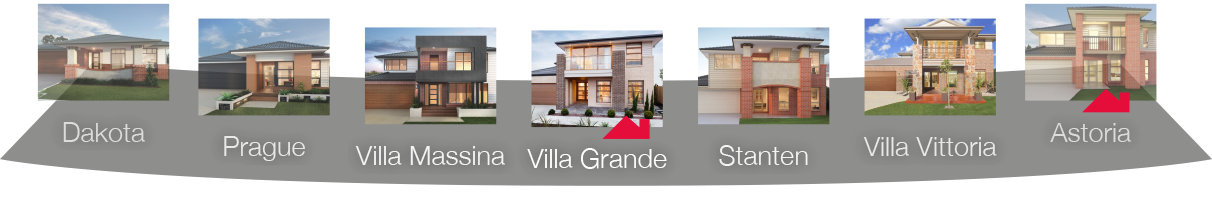
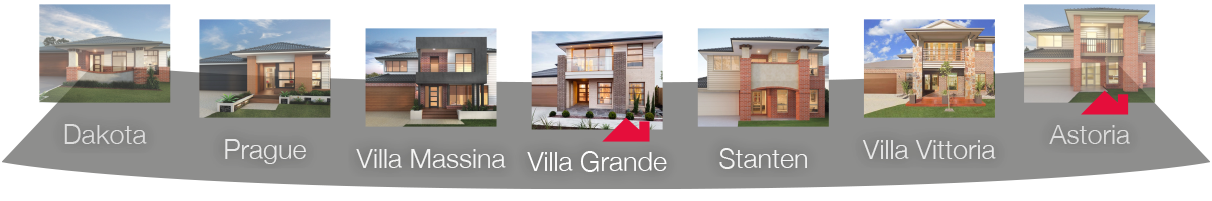
fix finder position

diff --git a/includes/home-finder.html b/includes/home-finder.html
@@ -73,7 +73,7 @@
     height: 40px;
     left: -16px;
     position: absolute;
-    top: -3px;
+    top: -4px;
     transform: rotate(74deg);
     width: 80px;
 }
